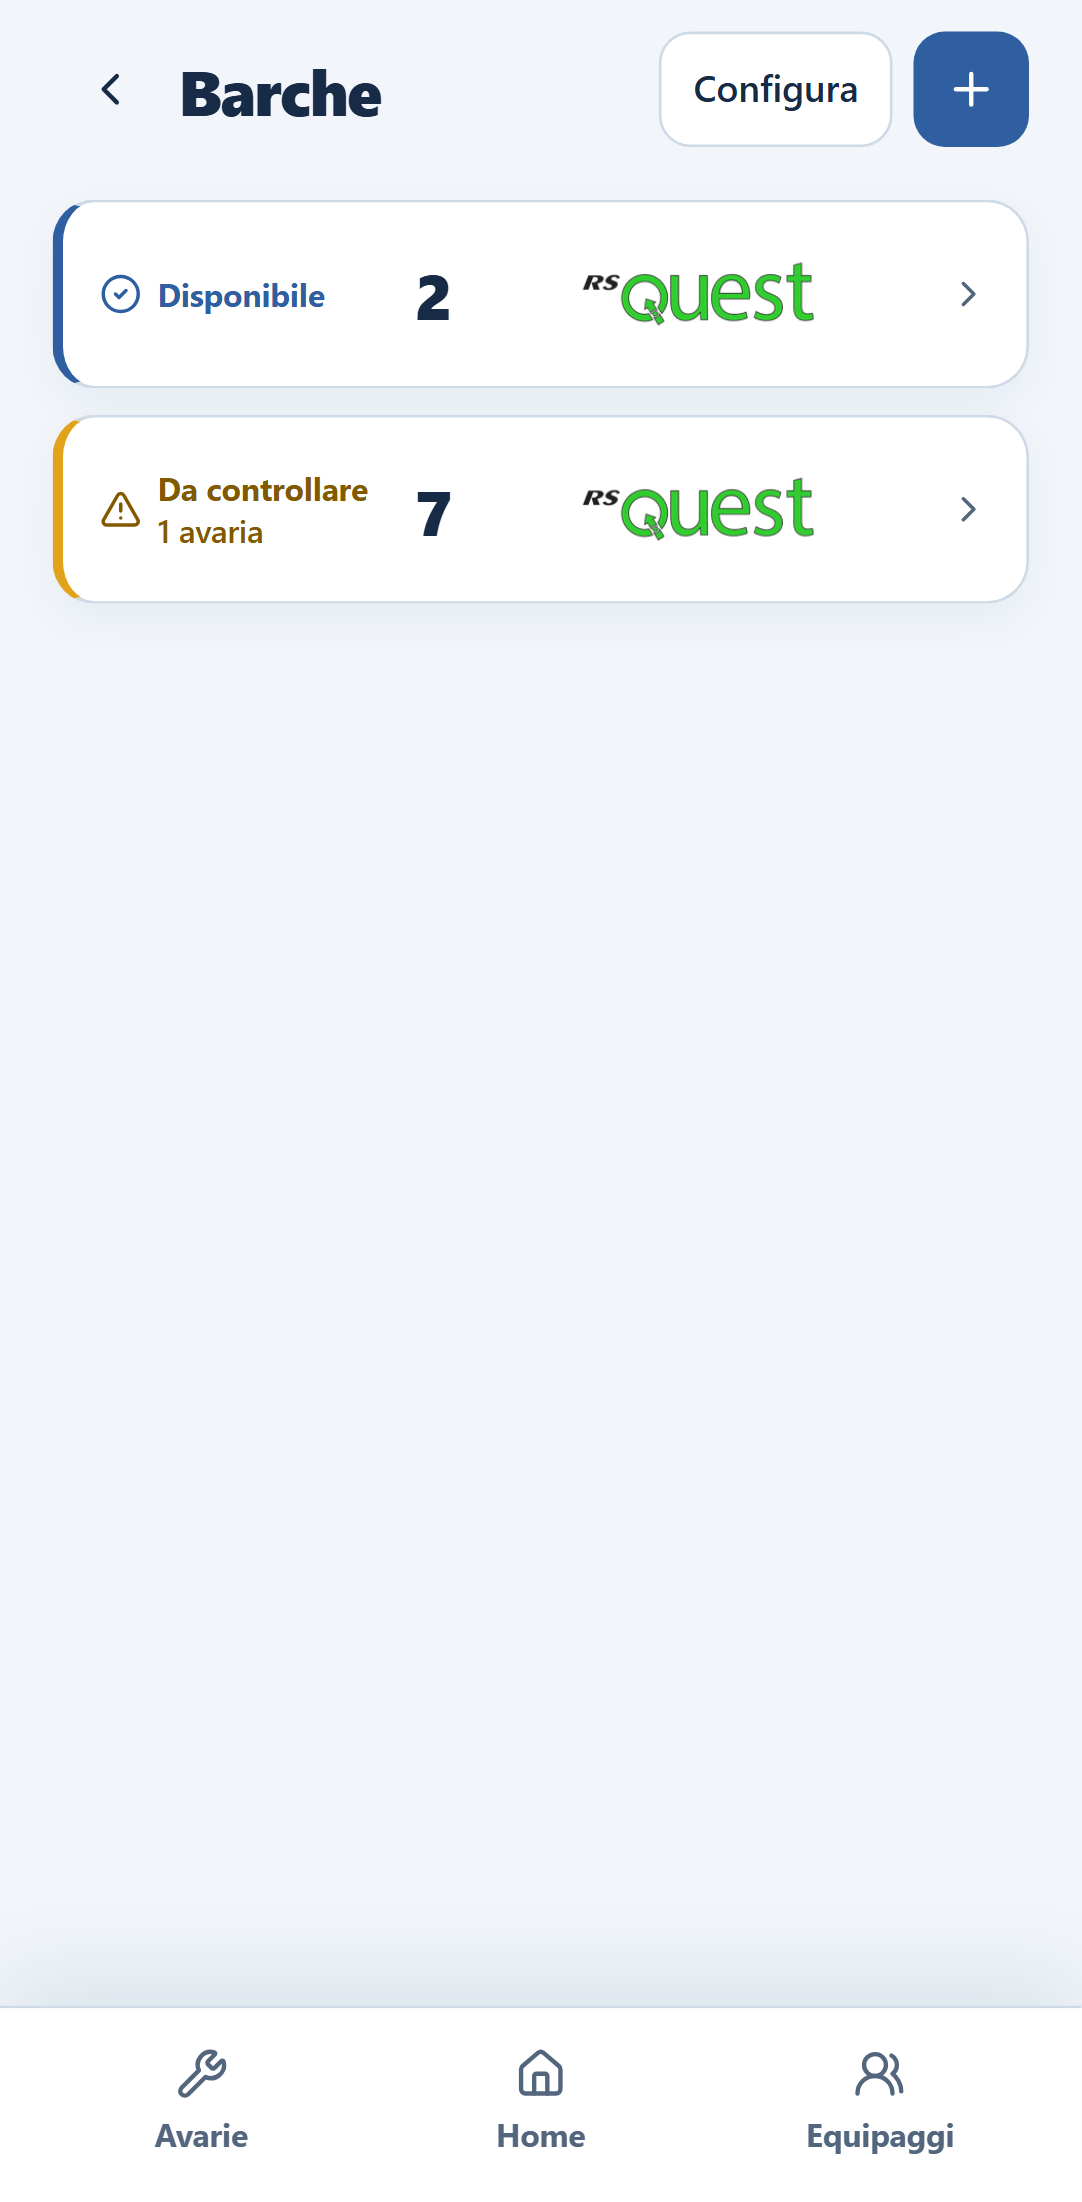
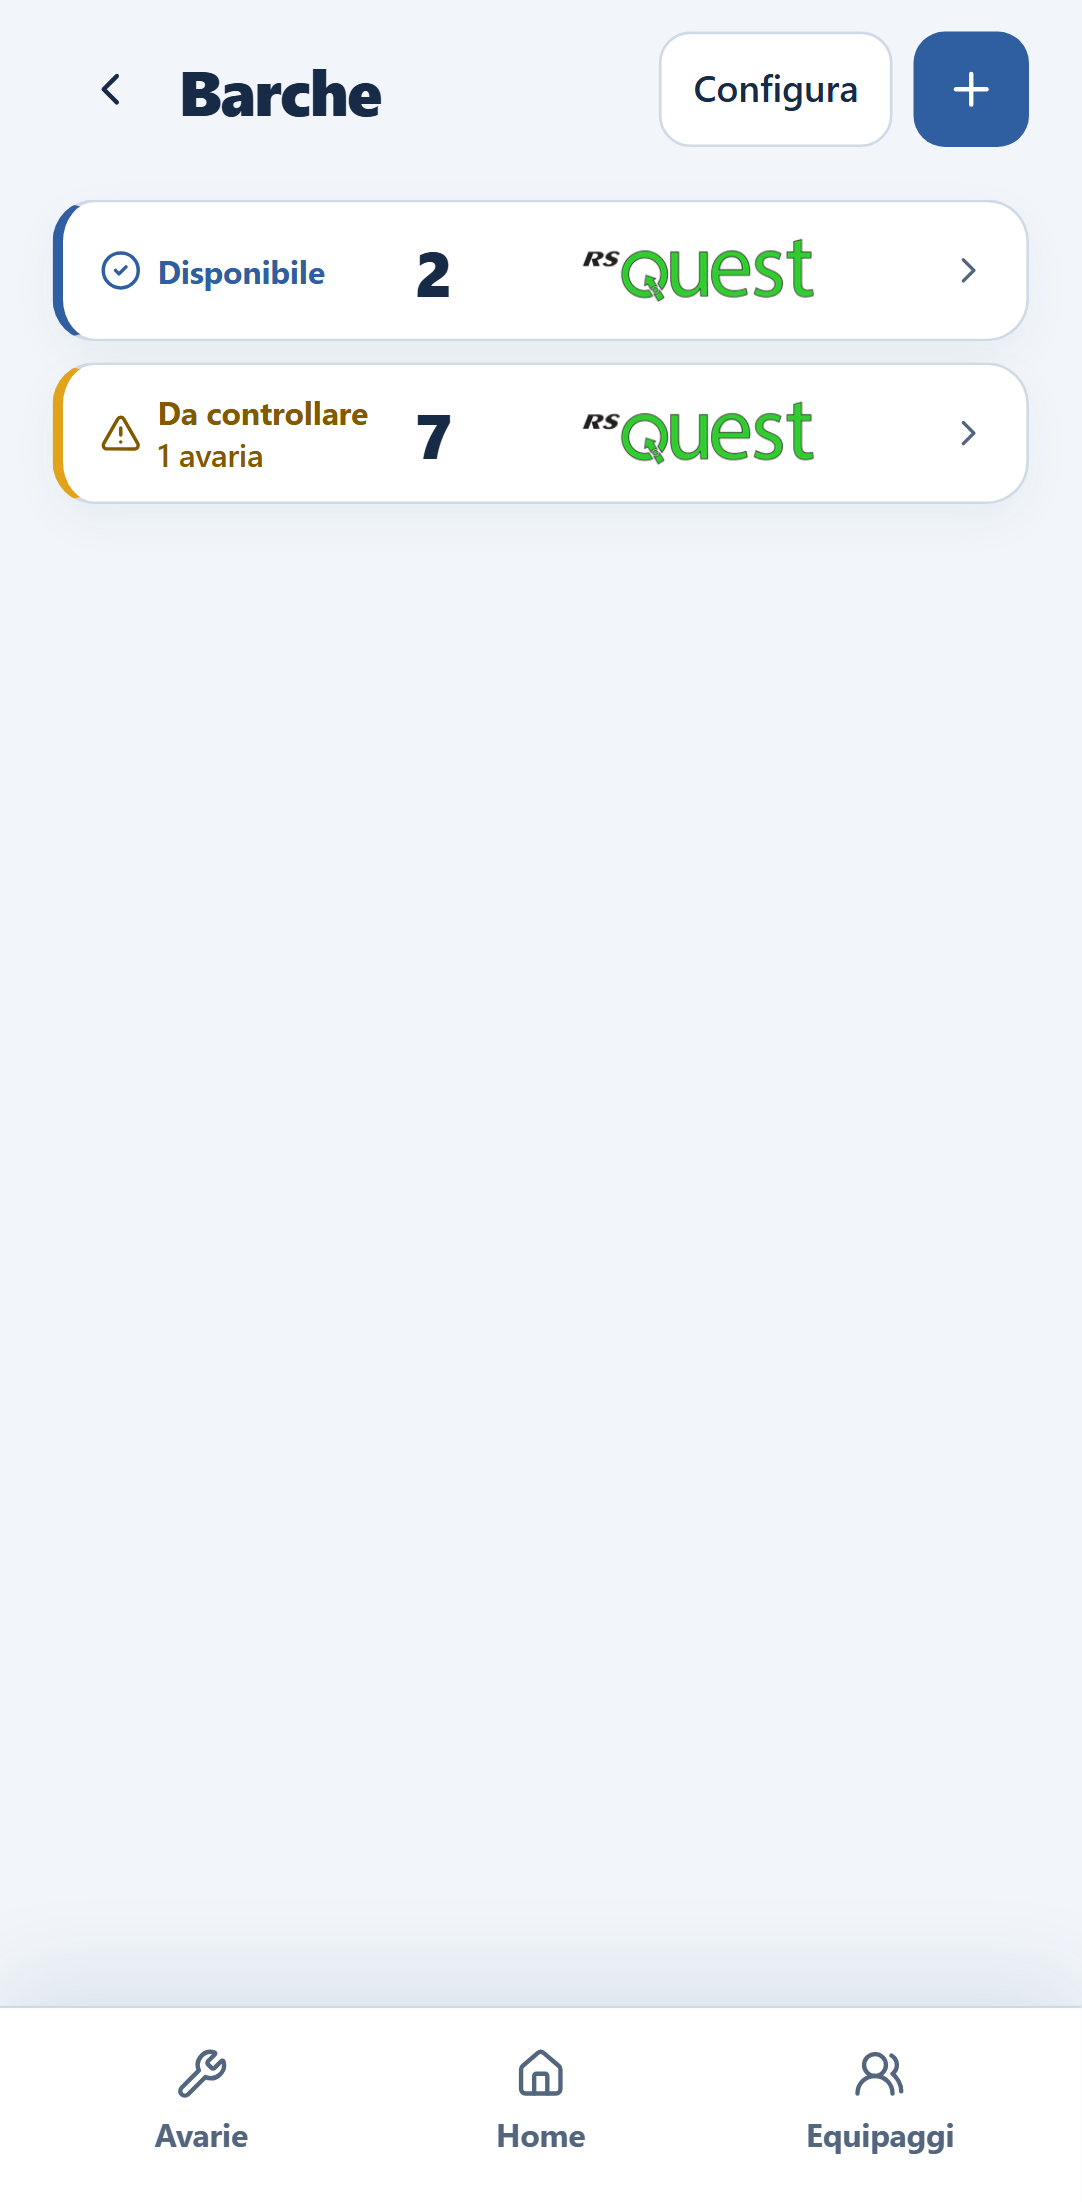
feat: take a quarter of the height out of every boat card
A 36px mark sat in a 72px row: the rest was air. The card minimum drops to
54px with half the vertical padding and a slightly tighter gap between rows,
and the mark keeps its size — seven boats now fit in a screen that held five.

ug1-boat-mark-fit.spec.ts already measured each mark against its slot; it now
measures the card height too, so the row cannot grow back unnoticed.

Changed region(s): [[0.0305, 0.0926, 0.915, 0.2779]]

diff --git a/src/features/boats/BoatManagement.tsx b/src/features/boats/BoatManagement.tsx
@@ -326,7 +326,7 @@ function BoatList({
   onOpen: (boatId: string) => void
 }) {
   return (
-    <section aria-label="Elenco barche" className="grid gap-2.5">
+    <section aria-label="Elenco barche" className="grid gap-2">
       {boats.map((boat) => {
         const boatFaults = faults.filter((fault) => fault.boatId === boat.id)
         const openCount = boatFaults.filter(
@@ -338,7 +338,10 @@ function BoatList({
         return (
           <button
             aria-label={`${boat.type} ${boat.number}, ${copy.label}${openCount ? `, ${openCount} ${openCount === 1 ? "avaria" : "avarie"}` : ""}`}
-            className={`flex min-h-18 items-center gap-3 rounded-2xl border border-l-4 px-3.5 py-3 text-left shadow-[0_6px_18px_rgb(6_59_82/0.05)] outline-none transition-colors hover:bg-muted focus-visible:ring-3 focus-visible:ring-ring/40 max-[380px]:flex-wrap max-[380px]:gap-y-2 ${copy.edge} ${state === "unavailable" ? "bg-muted/70 text-muted-foreground" : "bg-card"}`}
+            // 3.375rem rather than 4.5, and half the vertical padding: the row
+            // was 72px tall around a 36px mark, so a quarter of every card was
+            // air. The mark keeps its size; only the space around it goes.
+            className={`flex min-h-[3.375rem] items-center gap-3 rounded-2xl border border-l-4 px-3.5 py-1.5 text-left shadow-[0_6px_18px_rgb(6_59_82/0.05)] outline-none transition-colors hover:bg-muted focus-visible:ring-3 focus-visible:ring-ring/40 max-[380px]:flex-wrap max-[380px]:gap-y-1.5 max-[380px]:py-2 ${copy.edge} ${state === "unavailable" ? "bg-muted/70 text-muted-foreground" : "bg-card"}`}
             key={boat.id}
             onClick={() => onOpen(boat.id)}
             type="button"

diff --git a/tests/e2e/ug1-boat-mark-fit.spec.ts b/tests/e2e/ug1-boat-mark-fit.spec.ts
@@ -82,7 +82,8 @@ test("keeps every model mark inside its slot", async ({ page }, testInfo) => {
   }
 
   // The rows must also stay the height the list expects: a mark taller than
-  // its slot pushed the card over the one below it.
+  // its slot pushed the card over the one below it, and the 2026-09-20 pass
+  // took a quarter of the height out of every card — 72px around a 36px mark.
   const cardHeights = await page
     .getByRole("region", { name: "Elenco barche" })
     .evaluate((list) =>
@@ -90,7 +91,7 @@ test("keeps every model mark inside its slot", async ({ page }, testInfo) => {
         (card) => card.getBoundingClientRect().height,
       ),
     )
-  expect(Math.max(...cardHeights)).toBeLessThanOrEqual(96)
+  expect(Math.max(...cardHeights)).toBeLessThanOrEqual(56)
 
   const evidenceDirectory = path.resolve(".evidence/UG1")
   mkdirSync(evidenceDirectory, { recursive: true })

diff --git a/docs/post-mvp/07_PAGE_CHANGELOG.md b/docs/post-mvp/07_PAGE_CHANGELOG.md
@@ -113,6 +113,7 @@ derivato finale è rinviato.
 - A 320 px il trattamento dell'identità si compatta per lasciare interamente visibili anche i numeri a due cifre (11, 14, 15).
 - Il riquadro del marchio va misurato sull'immagine, non con una percentuale: la riga della griglia è dimensionata sul contenuto, quindi `h-full` non aveva nulla di definito a cui riferirsi e ogni marchio tornava alla sua altezza nativa di 60 px dentro una riga da 36 px. Un marchio largo restava comunque limitato dagli 88 px della colonna e sembrava corretto — per questo il difetto è arrivato fino all'app: l'unica flotta mai provata era di RS Quest. RS 500, J/80 e i due First uscivano invece dalla card. Dal 2026-09-20 l'immagine porta `36 × 88` con `object-contain`, e `ug1-boat-mark-fit.spec.ts` misura tutti e sette i tipi canonici nel proprio riquadro.
 - Rendere “Da controllare” giallo; mantenere “Disponibile” leggibile e senza confonderlo con l'assegnazione verde usata in P15. Dal 2026-09-19 un filo colorato a sinistra porta lo stato anche a colpo d'occhio: blu disponibile — lo stesso blu che in P15 vuol dire disponibile —, ambra da controllare, grigio non disponibile. Icona ed etichetta restano: il colore non è mai da solo.
+- Sempre dal 2026-09-20 la card è più bassa di un quarto — da 72 px a 54 px minimi, con metà del padding verticale e un filo meno di distanza fra una card e l'altra. Il riquadro del marchio resta 36 px: quello che se ne va è soltanto l'aria attorno, e in una schermata entrano sette barche dove prima ne entravano cinque. `ug1-boat-mark-fit.spec.ts` misura anche questa altezza, così non torna a crescere per caso.
 - Dal 2026-09-20 lo stato apre la riga, subito dopo il filo colorato e nello stesso blu: icona con la spunta cerchiata ed etichetta scritta, in una colonna di larghezza fissa, così la disponibilità della flotta si legge lungo una sola colonna mentre si scorre e numeri e marchi restano comunque allineati fra righe. Sotto i 380 px la colonna si libera e l'identità va a capo, come già faceva.
 - Elenco compatto; dettaglio con guasti aperti in evidenza, risolti secondari.
 - Separare Elimina inserimento errato, disponibilità corso e selezione uscita della sessione. Lo scollegamento è limitato alla sessione aperta e non produce una cascata implicita.

diff --git a/04_IMPLEMENTATION_PLAN.md b/04_IMPLEMENTATION_PLAN.md
@@ -911,6 +911,12 @@ availability reads down one column while scrolling and the numbers and marks
 after it stay aligned. Below 380px the column releases and the identity wraps,
 as it already did.
 
+The P08 card is then a quarter shorter — 72px to 54px, half the vertical
+padding — because a 36px mark sat in a 72px row and the rest was air. The mark
+keeps its size; the space around it goes. Seven boats now fit where five did.
+`ug1-boat-mark-fit.spec.ts` measures the card height as well as the mark, so it
+cannot creep back.
+
 **Status 2026-09-20 — the number of crews can change after setup.**
 
 Reported from the running app: eighteen students, ten crews chosen at setup,
